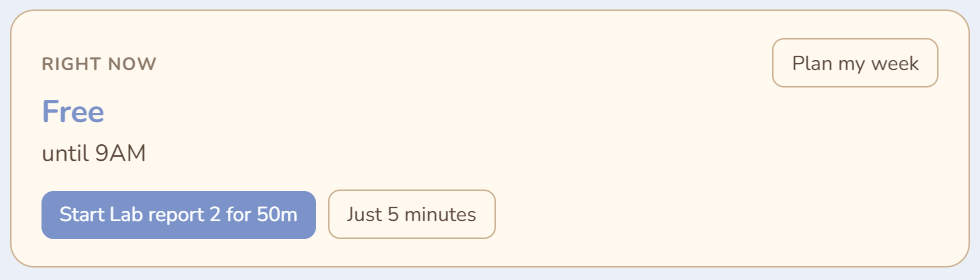
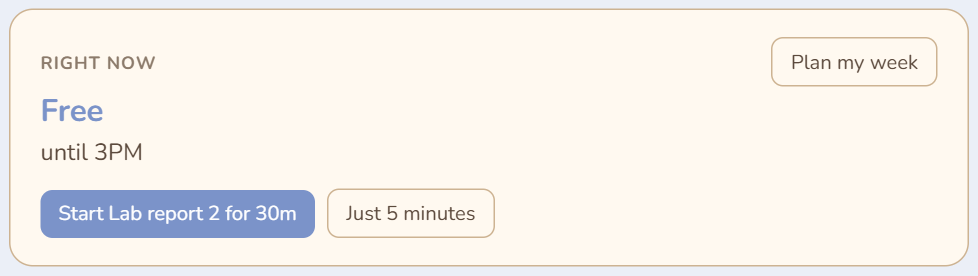
Astrolabe page matches the current app; new screenshots and the voyage habit tracker

diff --git a/assets/js/content.js b/assets/js/content.js
@@ -135,19 +135,19 @@ const SITE = {
         ]},
         { heading: "A Single Starting Point", image: "focus.png",
           missing: "Planning my day took longer than doing what was in it.",
-          fix: "The first screen, \"Focus\", has one text box and three answers: what is happening now, what is next and what is due soon. You type something the way you would say it, like \"Bio quiz Friday at 10\", and the app reads the date, time and type and files it in the right place." },
+          fix: "The first screen, \"Focus\", has one text box and three answers: what is happening now, what is next and what is due soon. You type something the way you would say it, like \"Bio quiz Friday at 10\" or \"coffee $4.50\", and the app turns it into a task, an expense or a repeating plan, with a card to check before it saves. A sentence with several deadlines becomes separate tasks, each with its own date." },
         { heading: "Tasks That Schedule Themselves", image: "tasks.png",
           missing: "A task list tells you what is due, but not when you will actually do the work.",
-          fix: "Each task has an estimate of how many hours it needs. One button, \"Plan my week\", fits those hours into your free time over the next seven days, before each due date, with no more than four hours of planned work on any day. Since people tend to underestimate their own work, the app sets aside more time than the estimate." },
+          fix: "Each task has an estimate of how long it needs. Since people tend to underestimate their own work, the app adds half again to each estimate, or uses what it learns from how long your tasks actually take. One button, \"Plan my week\", fits that time into your free time before each due date and puts it on the calendar. Anything that cannot fit is named, so you find out on Monday and not the night before." },
         { heading: "A Calendar That Includes Real Life", image: "today.png",
-          missing: "Calendars only hold appointments and leave out the rest of the day, like sleep, meals and the time it takes to get ready and get somewhere.",
-          fix: "Classes, work, plans and sleep all show up at their real length, and only stretches of an hour or more count as free time." },
+          missing: "Calendars only hold appointments and leave out the rest of the day, like sleep, meals and work shifts.",
+          fix: "Classes, office hours, shifts, meals, workouts and sleep all show up as real blocks. Free time is whatever is left, shown as actual windows like \"2 PM to 5 PM\" instead of a number of hours." },
         { heading: "Reminders Instead of Restrictions", image: "right-now.png",
           missing: "Apps that block distractions take the choice away from you.",
-          fix: "Astrolabe never blocks anything. You can start a planned session in one tap, the app checks in halfway through and at the end, and you can move a session to your next free time, so skipping it becomes a decision with a new time attached instead of a silent miss." },
-        { heading: "Lists That Fill Themselves", body: [
-          "The shopping list fills itself from the meals you plan and the supplies you mark as in use, and items drop off once you buy them or mark that you already have them."
-        ]},
+          fix: "Astrolabe never blocks anything. It warns you when something clashes and still lets you do it. When you are free and something is due, one button starts it for a set time, or just five minutes, which is often all it takes to begin, and a bar shows the time running down until you press \"I finished\"." },
+        { heading: "A Habit Tracker You Do Not Want to Lose", image: "voyage.png",
+          missing: "Habit apps count streaks with points that only go up, so missing a day costs nothing.",
+          fix: "Your consistency is a ship sailing through the history of navigation, from a Greek galley to Apollo landing on the Moon, with 365 levels in all. Each day you keep clears a level, a missed day damages the ship and three in a row send you back to the start of that era. A loss is felt about twice as strongly as an equal gain (Kahneman and Tversky, 1979), so something you built and could lose motivates more than a score. Two hours before bed, the app lists what is left." },
         { heading: "How I Built It", body: [
           "I wrote Astrolabe in plain HTML, CSS and JavaScript, with no framework. Everything saves in the browser first and syncs through Firebase when you sign in, so it follows you across devices, and the whole app works in English, Spanish, French, Italian and German."
         ]}
